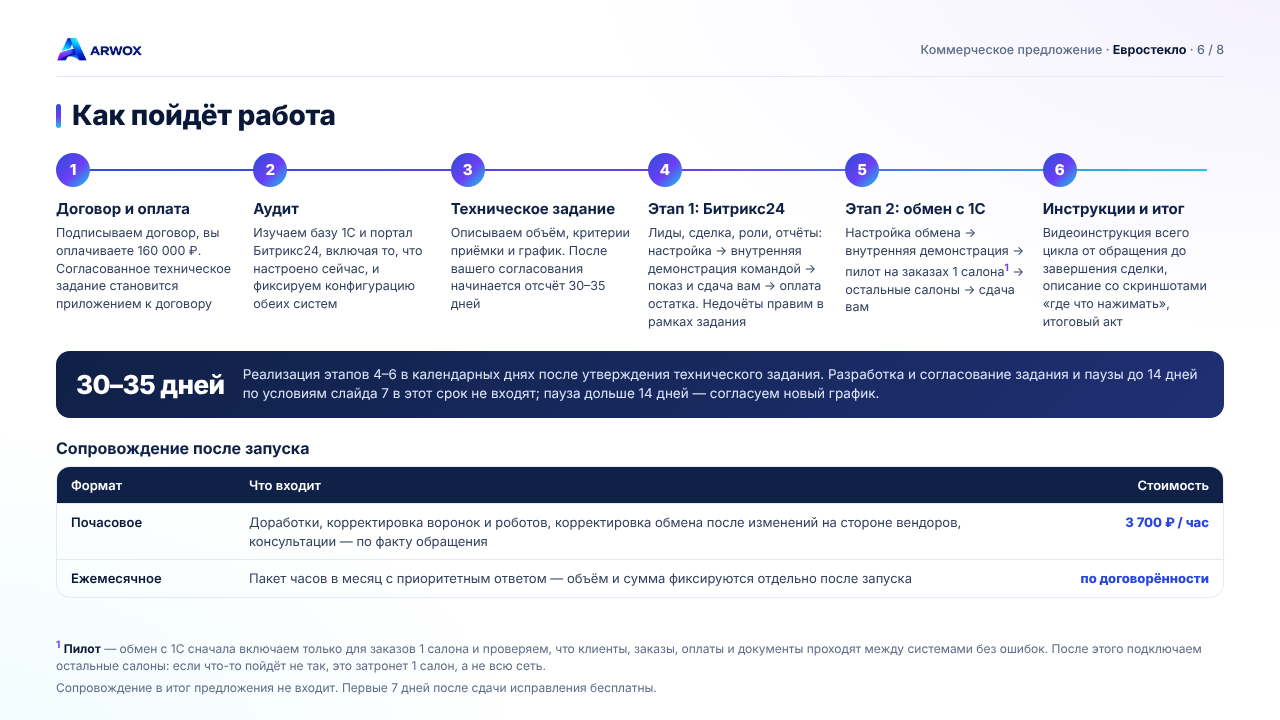
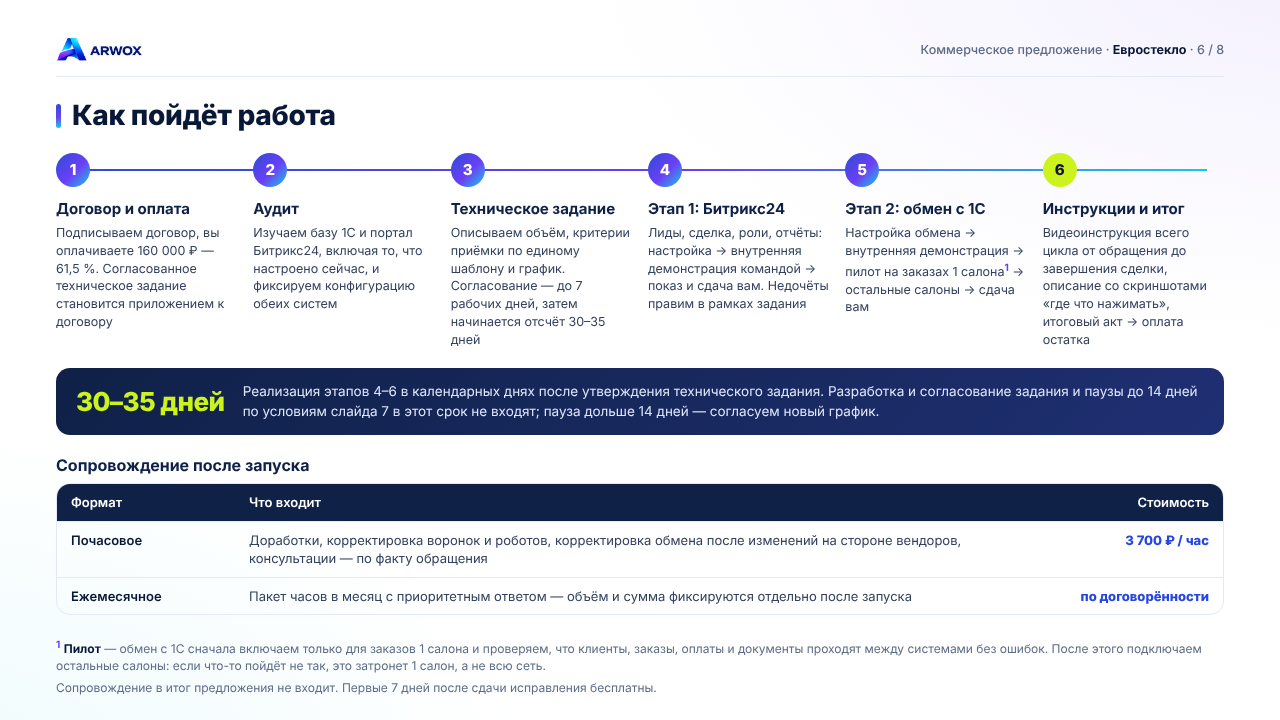
claude-web: КП финал — регламент 7 рабочих дней, оплата в %, старт без полей карточек, акцент салатовым
Claude-Session: https://claude.ai/code/session_01GkndF4A6X3vok37QfmD711

diff --git a/docs/kp-design/2026-10-28/project/S09-usloviya.dc.html b/docs/kp-design/2026-10-28/project/S09-usloviya.dc.html
@@ -25,14 +25,15 @@ a{color:#2746e0}a:hover{color:#6b3ff5}
   <div style="display: grid; grid-template-columns: repeat(2, minmax(0, 1fr)); gap: 16px; margin-top: 16px">
     <div class="cd u">
       <p><b>Срок действия предложения</b> — 7 календарных дней, до 04.11.2026.</p>
-      <p><b>Порядок оплаты</b> — 160&nbsp;000&nbsp;₽ при подписании договора, остаток 100&nbsp;000&nbsp;₽ — после сдачи этапа 1, до старта этапа 2. <b>Гарантия</b> — 7 дней бесплатных исправлений после сдачи работ.</p>
+      <p><b>Порядок оплаты</b> — 160&nbsp;000&nbsp;₽ (61,5&nbsp;%) при подписании договора; остаток 100&nbsp;000&nbsp;₽ (38,5&nbsp;%) — в течение 7 рабочих дней после сдачи видеоинструкции и описания. <b>Гарантия</b> — 7 дней бесплатных исправлений после сдачи работ.</p>
       <p><b>Объём работ</b> ограничен слайдом 3 и техническим заданием. Изменения после утверждения задания, в том числе переименование статусов после реализации, — отдельным согласованием.</p>
-      <p><b>Срок и приёмка.</b> Реализация — 30–35 календарных дней после утверждения технического задания; разработка и согласование задания и паузы в срок не входят. Приёмка — 3 рабочих дня после сдачи этапа; если письменных замечаний нет, этап считается принятым.</p>
+      <p><b>Срок.</b> Реализация — 30–35 календарных дней после утверждения технического задания; разработка и согласование задания и паузы в срок не входят. Задание вы согласуете в течение 7 рабочих дней, замечания — одним списком.</p>
+      <p><b>Приёмка.</b> Критерии приёмки фиксируются в задании по единому шаблону: что проверяем, как проверяем, какой результат считается выполненным. На проверку этапа — 7 рабочих дней; замечания — одним списком и только по этим критериям, новые пожелания — изменение объёма. Повторная проверка — только исправленных пунктов. Нет письменных замечаний в срок или этап после сдачи используется в работе — этап принят.</p>
       <p><b>Приостановка работ.</b> Ошибки, сбои или доработки вне нашей зоны — конфигурация и данные 1С, доступы, изменения вендора — ставят работы по связанным блокам на паузу до устранения причины. Пауза до 14 календарных дней в график не входит — срок продлевается на её длительность; пауза дольше 14 дней — согласуем новый график. Выяснение и устранение таких причин — сопровождение по согласованию. Задержка оплаты или согласований с вашей стороны — такая же пауза.</p>
-      <p><b>Доступы и содействие.</b> Копия базы 1С, контакт вашего специалиста 1С и администратор портала нужны на старте; согласования — через 1 ответственного с вашей стороны.</p>
-      <p><b>Данные.</b> Ввод и актуальность данных, порядок в базе 1С до запуска обмена — на вашей стороне; мы подключаем и настраиваем.</p>
+      <p><b>Доступы и содействие.</b> Копия базы 1С, контакт вашего специалиста 1С и администратор портала — в течение 7 рабочих дней после подписания договора; согласования — через 1 ответственного с вашей стороны.</p>
     </div>
     <div class="cd soft u">
+      <p><b>Данные.</b> Ввод и актуальность данных, порядок в базе 1С до запуска обмена — на вашей стороне; мы подключаем и настраиваем.</p>
       <p><b>Цены вендора и сторонних сервисов.</b> Стоимость и условия лицензии, подписки и сервисов определяют их владельцы; итоговая стоимость формируется на дату оформления.</p>
       <p><b>Скидки вендора</b> действуют официально и в заявленные сроки; вендор вправе изменить или завершить акцию.</p>
       <p><b>Изменения сторонних сервисов.</b> Интеграции настраиваем в конфигурации, актуальной на момент аудита. Корректировки после изменений на стороне вендоров — сопровождение, слайд 5.</p>

diff --git a/docs/kp-design/2026-10-28/project/S08-etapy.dc.html b/docs/kp-design/2026-10-28/project/S08-etapy.dc.html
@@ -16,6 +16,7 @@ a{color:#2746e0}a:hover{color:#6b3ff5}
 .st h3{margin:12px 0 6px;font-size:15px;line-height:1.3;font-weight:700;color:#0f2147}
 .st p{margin:0;font-size:12.5px;line-height:1.42;color:#33415e}
 .st sup,.fn sup{font-size:10px;font-weight:700;color:#6b3ff5}
+.num.l{background:#CCF31E;color:#12112F}
 .t2{width:100%;border-collapse:separate;border-spacing:0;font-size:13px;line-height:1.42;border:1px solid #e4e9f7;border-radius:14px;overflow:hidden}
 .t2 th{background:#0f2147;color:#fff;text-align:left;font-weight:600;padding:9px 14px}
 .t2 td{padding:9px 14px;border-top:1px solid #e4e9f7;vertical-align:top;color:#33415e}
@@ -29,16 +30,16 @@ a{color:#2746e0}a:hover{color:#6b3ff5}
   <div style="position: relative; margin-top: 20px">
     <div style="position: absolute; left: 17px; right: 17px; top: 16px; height: 2px; background: linear-gradient(90deg, #2b4dd6 0%, #6b3ff5 55%, #18c8e6 100%)"></div>
     <div style="position: relative; display: grid; grid-template-columns: repeat(6, minmax(0, 1fr)); gap: 16px">
-      <div class="st"><span class="num">1</span><h3>Договор и оплата</h3><p>Подписываем договор, вы оплачиваете 160&nbsp;000&nbsp;₽. Согласованное техническое задание становится приложением к договору</p></div>
+      <div class="st"><span class="num">1</span><h3>Договор и оплата</h3><p>Подписываем договор, вы оплачиваете 160&nbsp;000&nbsp;₽ — 61,5&nbsp;%. Согласованное техническое задание становится приложением к договору</p></div>
       <div class="st"><span class="num">2</span><h3>Аудит</h3><p>Изучаем базу 1С и портал Битрикс24, включая то, что настроено сейчас, и фиксируем конфигурацию обеих систем</p></div>
-      <div class="st"><span class="num">3</span><h3>Техническое задание</h3><p>Описываем объём, критерии приёмки и график. После вашего согласования начинается отсчёт 30–35 дней</p></div>
-      <div class="st"><span class="num">4</span><h3>Этап 1: Битрикс24</h3><p>Лиды, сделка, роли, отчёты: настройка → внутренняя демонстрация командой → показ и сдача вам → оплата остатка. Недочёты правим в рамках задания</p></div>
+      <div class="st"><span class="num">3</span><h3>Техническое задание</h3><p>Описываем объём, критерии приёмки по единому шаблону и график. Согласование — до 7 рабочих дней, затем начинается отсчёт 30–35 дней</p></div>
+      <div class="st"><span class="num">4</span><h3>Этап 1: Битрикс24</h3><p>Лиды, сделка, роли, отчёты: настройка → внутренняя демонстрация командой → показ и сдача вам. Недочёты правим в рамках задания</p></div>
       <div class="st"><span class="num">5</span><h3>Этап 2: обмен с 1С</h3><p>Настройка обмена → внутренняя демонстрация → пилот на заказах 1 салона<sup>1</sup> → остальные салоны → сдача вам</p></div>
-      <div class="st"><span class="num">6</span><h3>Инструкции и итог</h3><p>Видеоинструкция всего цикла от обращения до завершения сделки, описание со скриншотами «где что нажимать», итоговый акт</p></div>
+      <div class="st"><span class="num l">6</span><h3>Инструкции и итог</h3><p>Видеоинструкция всего цикла от обращения до завершения сделки, описание со скриншотами «где что нажимать», итоговый акт → оплата остатка</p></div>
     </div>
   </div>
   <div style="margin-top: 20px; display: flex; align-items: center; gap: 18px; padding: 14px 20px; border-radius: 14px; background: linear-gradient(135deg, #0f2147 0%, #1f2f73 100%); color: #fff">
-    <span style="font-size: 26px; font-weight: 800; letter-spacing: -.5px; white-space: nowrap">30–35 дней</span>
+    <span style="font-size: 26px; font-weight: 800; letter-spacing: -.5px; white-space: nowrap; color: #CCF31E">30–35 дней</span>
     <span style="font-size: 13.5px; line-height: 1.45; color: #dfe6fb">Реализация этапов 4–6 в календарных днях после утверждения технического задания. Разработка и согласование задания и паузы до 14 дней по условиям слайда 7 в этот срок не входят; пауза дольше 14 дней — согласуем новый график.</span>
   </div>
   <p style="margin: 20px 0 8px; font-size: 16px; font-weight: 700; color: #0f2147">Сопровождение после запуска</p>

diff --git a/docs/kp-design/2026-10-28/project/S04-ramki.dc.html b/docs/kp-design/2026-10-28/project/S04-ramki.dc.html
@@ -23,7 +23,7 @@ a{color:#2746e0}a:hover{color:#6b3ff5}
   <h2 class="h2">Что входит и что нет</h2>
   <div style="display: grid; grid-template-columns: 7fr 4fr; gap: 20px; margin-top: 20px">
     <div style="display: grid; grid-template-columns: repeat(2, minmax(0, 1fr)); gap: 12px">
-      <div class="cd" style="padding: 20px 22px; border-top: 4px solid #2b4dd6"><h3>Аудит 1С и техническое задание</h3><p>Способ обмена под вашу конфигурацию, критерии приёмки</p></div>
+      <div class="cd" style="padding: 20px 22px; border-top: 4px solid #2b4dd6"><h3>Аудит и техническое задание</h3><p>Аудит портала Битрикс24 и базы 1С; задание на обе системы: способ обмена, критерии приёмки</p></div>
       <div class="cd" style="padding: 20px 22px; border-top: 4px solid #4a46ea"><h3>Лиды и сделка</h3><p>Каналы, распределение, проверка дублей; 9 стадий, задачи и сроки, воронка отказников</p></div>
       <div class="cd" style="padding: 20px 22px; border-top: 4px solid #6b3ff5"><h3>Обмен с 1С — 6 потоков</h3><p>Клиенты и заказы, номенклатура, стадии, документы, оплаты, производство</p></div>
       <div class="cd" style="padding: 20px 22px; border-top: 4px solid #4a86ea"><h3>Отчёты и роли</h3><p>Стандартные отчёты: воронка, просрочки, пропущенные обращения; права для 9 ролей</p></div>
@@ -36,10 +36,10 @@ a{color:#2746e0}a:hover{color:#6b3ff5}
         <li>Тендеры; частичные отгрузки — порядок оформления определяют ваши юрист и бухгалтерия</li>
         <li>Продажа монтажа через отдельное юрлицо и договор — когда решите; сам монтаж как стадия сделки входит</li>
         <li>Авито сейчас нет, WhatsApp — по желанию; сервис — слайд 4</li>
-        <li>Синхронизация календаря с 1С — желательна, не обязательна: календарь заданий ведётся в Битрикс24</li>
         <li>Разбор жалоб после звонков — пока вручную</li>
         <li>Изменения в самой конфигурации 1С, если без них обмен невозможен, — отдельная оценка до начала работ</li>
       </ul>
+      <p style="margin: 12px 0 0; padding-top: 10px; border-top: 1px solid #e4e9f7; font-size: 13px"><b style="color: #0a1838">Решим на аудите.</b> Синхронизация календаря заданий с 1С: укладывается в текущий объём — сделаем; нет — назовём стоимость или вынесем в доработку после основной реализации.</p>
     </div>
   </div>
   <p class="foot" style="position: absolute; left: 56px; right: 56px; bottom: 32px; margin: 0">Процесс подробно описан в предпроектном обследовании; точные настройки фиксируются в техническом задании.</p>

diff --git a/docs/kp-design/2026-10-28/project/S05-stoimost.dc.html b/docs/kp-design/2026-10-28/project/S05-stoimost.dc.html
@@ -25,12 +25,12 @@ a{color:#2746e0}a:hover{color:#6b3ff5}
   <table class="tb">
     <thead><tr><th style="width: 330px">Услуга</th><th>Что входит</th><th style="width: 150px; text-align: right">Стоимость</th></tr></thead>
     <tbody>
-      <tr><td>Внедрение: продажи в Битрикс24 и обмен с 1С</td><td>Аудит 1С и техническое задание, настройка портала и ролей, лиды, сделка, обмен с 1С, стандартные отчёты (или готовое решение из Маркетплейса), видеоинструкция и сдача в 2 этапа<div style="margin-top: 6px; font-size: 13px; color: #5d6b86">Отчёты под конкретные задачи клиента — отдельная разработка, оценивается отдельно.</div></td><td class="pr">260&nbsp;000&nbsp;₽</td></tr>
+      <tr><td>Внедрение: продажи в Битрикс24 и обмен с 1С</td><td>Аудит Битрикс24 и 1С, техническое задание на обе системы, настройка портала и ролей, лиды, сделка, обмен с 1С, стандартные отчёты (или готовое решение из Маркетплейса), видеоинструкция и сдача в 2 этапа<div style="margin-top: 6px; font-size: 13px; color: #5d6b86">Отчёты под конкретные задачи клиента — отдельная разработка, оценивается отдельно.</div></td><td class="pr">260&nbsp;000&nbsp;₽</td></tr>
     </tbody>
   </table>
   <div style="margin-top: 10px; display: flex; align-items: center; justify-content: space-between; padding: 12px 22px; border-radius: 14px; background: linear-gradient(135deg, #0f2147 0%, #1f2f73 100%); color: #fff">
     <span style="font-size: 16px; font-weight: 700">Итого по предложению</span>
-    <span style="font-size: 30px; font-weight: 800; letter-spacing: -.5px">260&nbsp;000&nbsp;₽</span>
+    <span style="font-size: 30px; font-weight: 800; letter-spacing: -.5px; color: #CCF31E">260&nbsp;000&nbsp;₽</span>
   </div>
   <p class="cap" style="margin-top: 16px">Оплачивается напрямую владельцам — в итог не входит</p>
   <table class="tb">

diff --git a/docs/kp-design/2026-10-28/project/Main.dc.html b/docs/kp-design/2026-10-28/project/Main.dc.html
@@ -32,13 +32,13 @@ a{color:#9fc0ff}a:hover{color:#cfe0ff}
     <div class="gl" style="padding: 26px 28px; border-radius: 22px; background: rgba(255,255,255,.08)">
       <span style="font-size: 12px; font-weight: 700; letter-spacing: .08em; text-transform: uppercase; color: #9fb0d6">Итог по предложению</span>
       <div style="margin-top: 10px; font-size: 52px; line-height: 1; font-weight: 800; letter-spacing: -1px">260&nbsp;000&nbsp;₽</div>
-      <p style="margin: 14px 0 0; font-size: 14px; line-height: 1.5; color: #c9d4ee">Под ключ: аудит 1С и техническое задание, настройка Битрикс24, обмен с 1С, видеоинструкция и сдача в 2 этапа</p>
+      <p style="margin: 14px 0 0; font-size: 14px; line-height: 1.5; color: #c9d4ee">Под ключ: аудит Битрикс24 и 1С, техническое задание, настройка Битрикс24, обмен с 1С, видеоинструкция и сдача в 2 этапа</p>
     </div>
   </div>
   <div style="position: absolute; left: 64px; right: 64px; bottom: 40px; display: flex; gap: 10px; flex-wrap: wrap">
     <span class="gl" style="padding: 10px 14px; font-size: 13px; color: #e7eefc"><b style="color: #fff">Облако</b> Битрикс24 «Профессиональный»</span>
     <span class="gl" style="padding: 10px 14px; font-size: 13px; color: #e7eefc"><b style="color: #fff">Фиксированная</b> стоимость</span>
-    <span class="gl" style="padding: 10px 14px; font-size: 13px; color: #e7eefc"><b style="color: #fff">Реализация</b> 30–35 дней после утверждения задания</span>
+    <span style="padding: 10px 14px; font-size: 13px; color: #12112F; background: #CCF31E; border-radius: 12px"><b>Реализация</b> 30–35 дней после утверждения задания</span>
     <span class="gl" style="padding: 10px 14px; font-size: 13px; color: #e7eefc"><b style="color: #fff">Действует</b> до 04.11.2026</span>
   </div>
 </div>

diff --git a/docs/kp-design/2026-10-28/project/S10-start.dc.html b/docs/kp-design/2026-10-28/project/S10-start.dc.html
@@ -27,9 +27,10 @@ a{color:#2746e0}a:hover{color:#6b3ff5}
       <h3>Что нужно от вас для старта</h3>
       <ol class="go" style="margin: 6px 0 0; padding-left: 20px">
         <li>Подтвердить предложение до 04.11.2026</li>
-        <li>Подписать договор и оплатить 160&nbsp;000&nbsp;₽; остаток — по условиям на слайде 7</li>
-        <li>После подписания — копия базы 1С и контакт вашего специалиста&nbsp;1С</li>
-        <li>Прислать состав полей карточек компании и сделки — карточки лида и клиента вы уже прислали</li>
+        <li>Согласовать договор — мы направим его после вашего подтверждения</li>
+        <li>Подписать договор</li>
+        <li>Оплатить 160&nbsp;000&nbsp;₽ — 61,5&nbsp;%; остаток 100&nbsp;000&nbsp;₽ — 38,5&nbsp;% после сдачи видеоинструкции</li>
+        <li>В течение 7 рабочих дней после подписания — копия базы 1С и контакт вашего специалиста&nbsp;1С</li>
         <li>Оформить подписку Маркетплейс к подключению телефонии и мессенджеров</li>
       </ol>
     </div>

diff --git a/docs/kp-design/2026-10-28/facts-kp.md b/docs/kp-design/2026-10-28/facts-kp.md
@@ -24,7 +24,7 @@
 | K14 | T1-21, T3-10 | К | Рекламации и тендеры — вне контура | 3 | Рекламации |
 | K15 | T2-27, T2-23 | К | Частичные отгрузки решает бухгалтерия; монтаж отдельным договором — идея | 3 | частичные отгрузки |
 | K16 | T1-03, T1-05 | К | Авито сейчас нет; WhatsApp — «может быть» | 3 | WhatsApp |
-| K17 | T3-04 | К | Синхронизация календаря с 1С желательна, не обязательна | 3 | желательна |
+| K17 | T3-04 | К | Синхронизация календаря с 1С желательна, не обязательна | 3 | Синхронизация календаря |
 | K18 | T2 358 | К | Жалобы после звонков сейчас не автоматизировать | 3 | жалоб |
 | K19 | T2-26; M узел «Ассистент ОП звонит через 14/90/270» и комментарий «Автоматическая постановка задачи» | К | Звонки 14/90/270, ассистент, автозадача, заказы от 100 000 ₽ | 3 | 270 |
 | K20 | T4 54–61 | Д | Типовая интеграция; возможна доработка со стороны КА — «надо понимать, о чём речь»; не решено | 3 | конфигурации 1С |
@@ -41,7 +41,7 @@
 | K31 | T3-07 | Ан | Изменение статусов после реализации — доработки и рост стоимости | 7 | переименование статусов |
 | K32 | T4 62 | Ан | Ранее доступ к 1С затягивался на месяц — сроки и акты сдвигались | 7 | Задержка оплаты или согласований |
 | K33 | T4-05; T3 59:47–01:00:01 | Д | Копия базы 1С — после подписания; связка с программистом клиента | 8 | копия базы 1С |
-| K34 | M комментарий 28.09 «структура карточек: лида, компании, сделки»; Q28 | К | Карточки лида и клиента прислали, компании и сделки — нет | 8 | карточки лида и клиента |
+| K34 | M комментарий 28.09 «структура карточек: лида, компании, сделки»; Q28 | К | Карточки лида и клиента прислали, компании и сделки — нет | искл. (владелец 28.10: состав полей карточек — в техническом задании) | карточки лида и клиента |
 | K35 | В 28.10 | Д | Порядок: договор (согласованное ТЗ — приложение) → аудит 1С и Битрикс24, включая текущие настройки → ТЗ → этап 1 Битрикс24 → этап 2 обмен с 1С → видеоинструкция и итоговый акт; внутренняя демонстрация перед каждой сдачей | 6 | приложением к договору |
 | K36 | В 28.10 | Д | Реализация — 30–35 календарных дней, без разработки и согласования ТЗ | 6 | 30–35 дней |
 | K37 | В 28.10 | Д | Пауза, если на стороне одной из платформ ошибки или доработки; защита исполнителя | 7 | Приостановка работ |
@@ -49,6 +49,10 @@
 | K39 | T2 5095–5180 | К | Монтаж отдельно — идея разделить продажу на 2 юрлица (товар и услуги), не реализовано; при появлении — новая сделка | 3 | отдельное юрлицо |
 | K40 | В — правка на холсте 28.10 | Д | Стандартные отчёты или готовое решение из Маркетплейса; отчёты под задачи клиента — отдельная разработка | 4 | отдельная разработка |
 | K41 | В 28.10 | Д | Видеоинструкция всего цикла от начала до конца и описание со скриншотами | 6 | скриншотами |
-| K42 | В 28.10 | Д | Оплата: 160 000 ₽ при подписании, остаток 100 000 ₽ (срок остатка — после этапа 1, до старта этапа 2 — предложение агента, на подтверждение) | 7 | 160 000 |
+| K42 | В 28.10 | Д | Оплата: 160 000 ₽ (61,5 %) при подписании; остаток 100 000 ₽ (38,5 %) — после сдачи видеоинструкции и описания, в течение 7 рабочих дней | 7 | 61,5 |
 | K43 | В 28.10 | Д | Пауза до 14 дней не входит в график; дольше 14 дней — новый график | 7 | дольше 14 дней |
 | K44 | В 28.10 | Д | Wazzup — тариф Pro | 4 | тариф Pro |
+| K45 | В 28.10 | Д | Регламент действий клиента — 7 рабочих дней: согласование ТЗ, проверка этапа, доступы; замечания одним списком | 7 | 7 рабочих дней |
+| K46 | В 28.10 | Д | Критерии приёмки согласуются и утверждаются по единому стандарту | 7 | единому шаблону |
+| K47 | В 28.10 | Д | Синхронизация календаря: укладывается в объём — делаем; нет — стоимость или доработка после основной реализации | 3 | Решим на аудите |
+| K48 | В 28.10 | Д | Старт: подтвердить → согласовать договор (направляем мы) → подписать → оплатить 160 000 ₽ | 8 | Согласовать договор |

diff --git a/sessions/2026-10-27-validatsiya-dannyh.md b/sessions/2026-10-27-validatsiya-dannyh.md
@@ -69,3 +69,5 @@
 - 28.10: открыто: кто делает работу на стороне 1С в пределах 260 000 ₽; подтвердить срок остатка оплаты.
 - 28.10: решение владельца по работам на стороне 1С: вопрос «плавающий», как будет работать разработчик со стороны клиента — неясно; КП отправляется в текущей формулировке (работы внутри 1С — при участии специалиста клиента, изменения конфигурации 1С — отдельная оценка). Если клиент будет настаивать — отдельное КП через формирование технического документа. Срок остатка оплаты (после этапа 1) — возражений нет, оставлен.
 - 28.10: пилот — сноска на слайде 6 простыми словами (что это и зачем), на слайде 3 ссылка «подробнее — слайд 6»; шаги 1–6 на слайде 6 немного детализированы. Холст, версия 9. Вёрстка 0, карта фактов 35/35. Все вопросы к владельцу по КП закрыты.
+- 28.10, финальные правки КП (версия 11): слайд 8 — убран «состав полей карточек» (уйдёт в ТЗ), шаги старта: подтвердить → согласовать договор (направляем мы) → подписать → оплатить 160 000 ₽ (61,5 %), остаток 100 000 ₽ (38,5 %) после видеоинструкции; доступы 1С — 7 рабочих дней после подписания. Слайд 7 — регламент 7 рабочих дней (согласование ТЗ, проверка этапа, доступы), критерии приёмки по единому шаблону «что / как / результат», замечания одним списком и только по критериям, повторная проверка только исправленного, молчаливая приёмка и «используется в работе после сдачи» = приёмка (уточнено «после сдачи», чтобы пилот не считался приёмкой). Приёмка изменена с 3 на 7 рабочих дней по слову владельца (шаблон — 3). Слайды 1, 3, 4 — «аудит Битрикс24 и 1С, ТЗ на обе системы»; слайд 3 — календарь в блоке «Решим на аудите». Акцент салатовым #CCF31E (цвет ARWOX из шаблона ППО) точечно: плашка срока на обложке, итог на слайде 4, «30–35 дней» и финальный шаг на слайде 6. Вёрстка 0, карта фактов 38/38.
+- 28.10: открыто: проценты 61,5 / 38,5 некруглые — предложено 60/40 (156 000 / 104 000), решение за владельцем.
